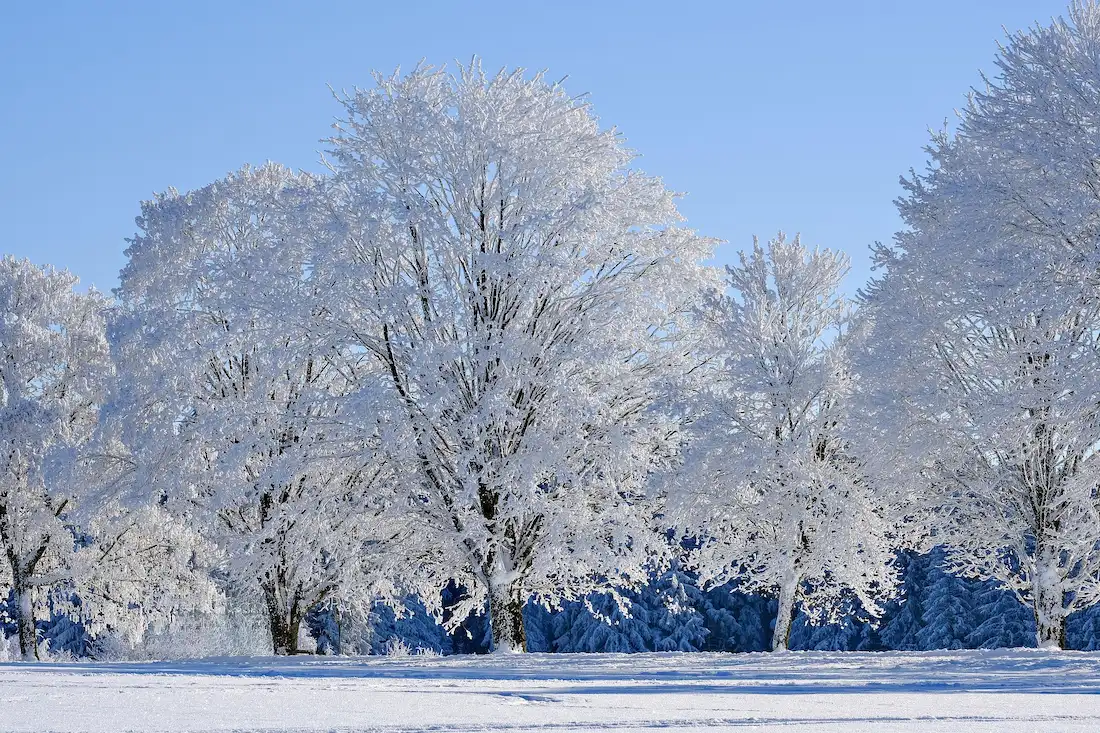
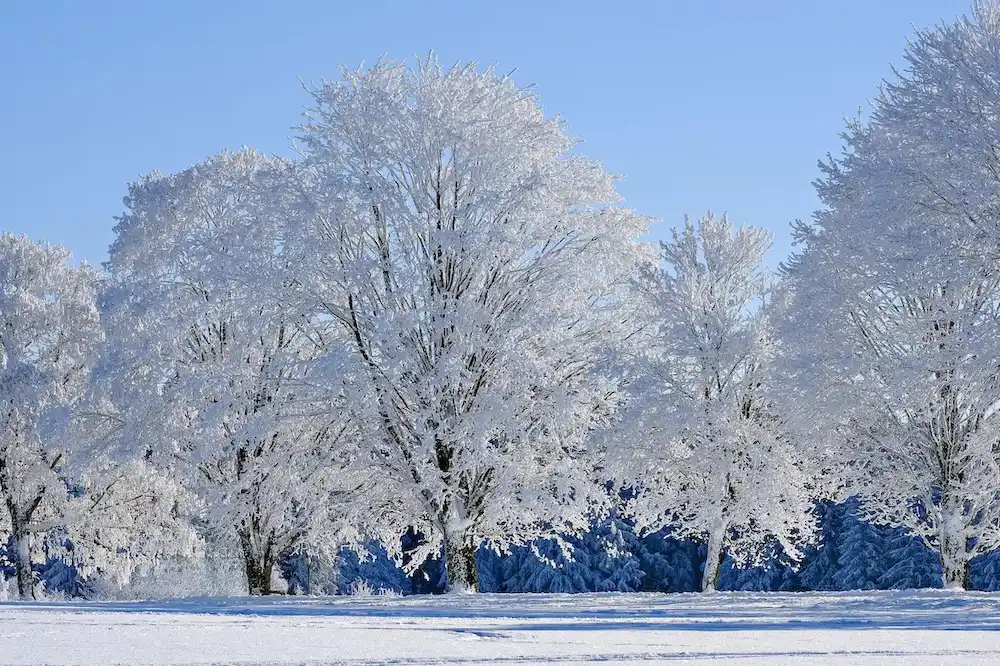
a

diff --git a/Ohjelmisto2/verkkosivu/kuvat.html b/Ohjelmisto2/verkkosivu/kuvat.html
@@ -35,7 +35,7 @@
 
         <div class="tuote">
             <h2>Kesä</h2>
-            <img src="kuva3.webp" alt="Kesä" width="1600" height="1067">
+            <img src="kuva3.webp" alt="Kesä" width="1000" height="636">
             <i>Kesä</i>
             <p>Lorem ipsum dolor sit amet, consectetur adipiscing elit.</p>
         </div>
@@ -49,7 +49,7 @@
 
         <div class="tuote">
             <h2>Talvi</h2>
-            <img src="kuva4.webp" alt="Talvi" width="1100" height="733">
+            <img src="kuva4.webp" alt="Talvi" width="1000" height="666">
             <i>Talvi</i>
             <p>Lorem ipsum dolor sit amet, consectetur adipiscing elit.</p>
         </div>

diff --git a/Ohjelmisto2/verkkosivu/index.html b/Ohjelmisto2/verkkosivu/index.html
@@ -30,7 +30,7 @@
         <h1>Vuodenajat</h1>
         
        <img src="kuva.webp" alt="Vuodenajat"
-     class="kuva1" width="1600" height="1067">
+        class="kuva1" width="1200" height="800">
         
         <p>Lorem ipsum dolor sit amet, consectetur adipiscing elit. Ut nec nisl eros. Donec id orci eros. Cras nibh erat, elementum eget consequat in, elementum vitae risus. Quisque sagittis ultrices dolor. Vestibulum mauris felis, congue quis imperdiet vitae, congue eu orci. Fusce nibh orci, eleifend et libero vel, sollicitudin consectetur neque. Aliquam pretium nisi quis lacus eleifend lacinia.</p>
       

diff --git a/Ohjelmisto2/verkkosivu/style.css b/Ohjelmisto2/verkkosivu/style.css
@@ -39,7 +39,7 @@ h1 {
 
     width: calc(100% - 80px);
     height: 270px;
-    aspect-ratio: 1600 / 1067;
+    aspect-ratio: 1200 / 800;
     margin: 0 auto;
     display: block;
     object-fit: cover;
